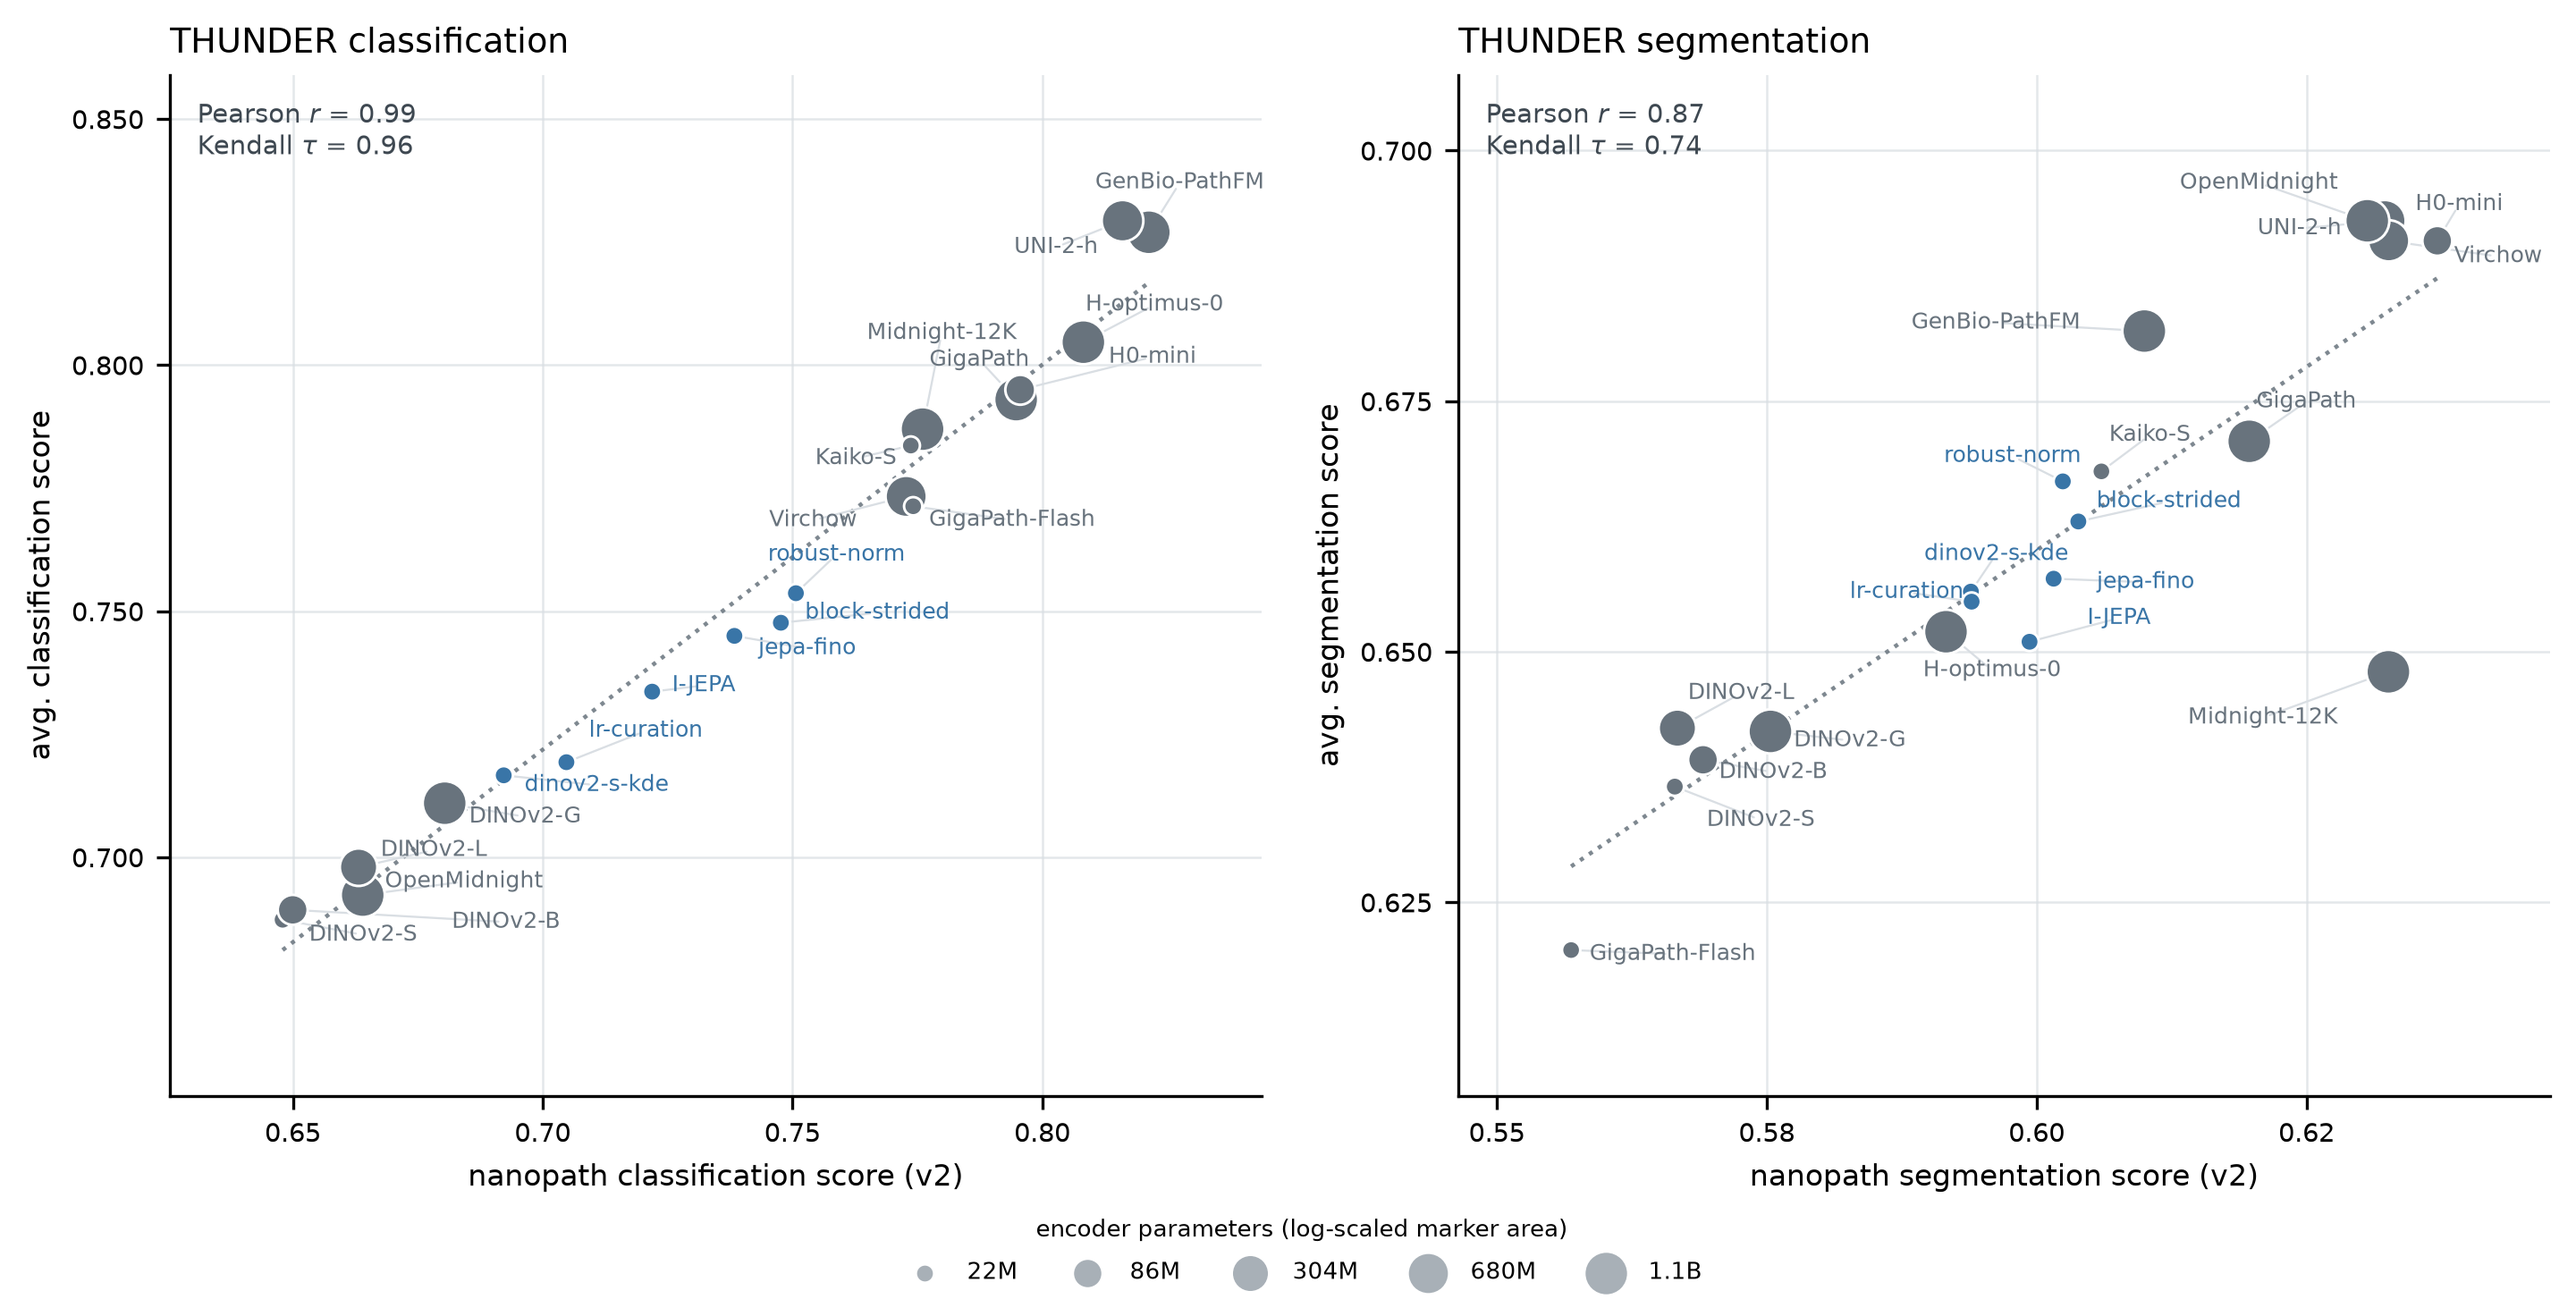
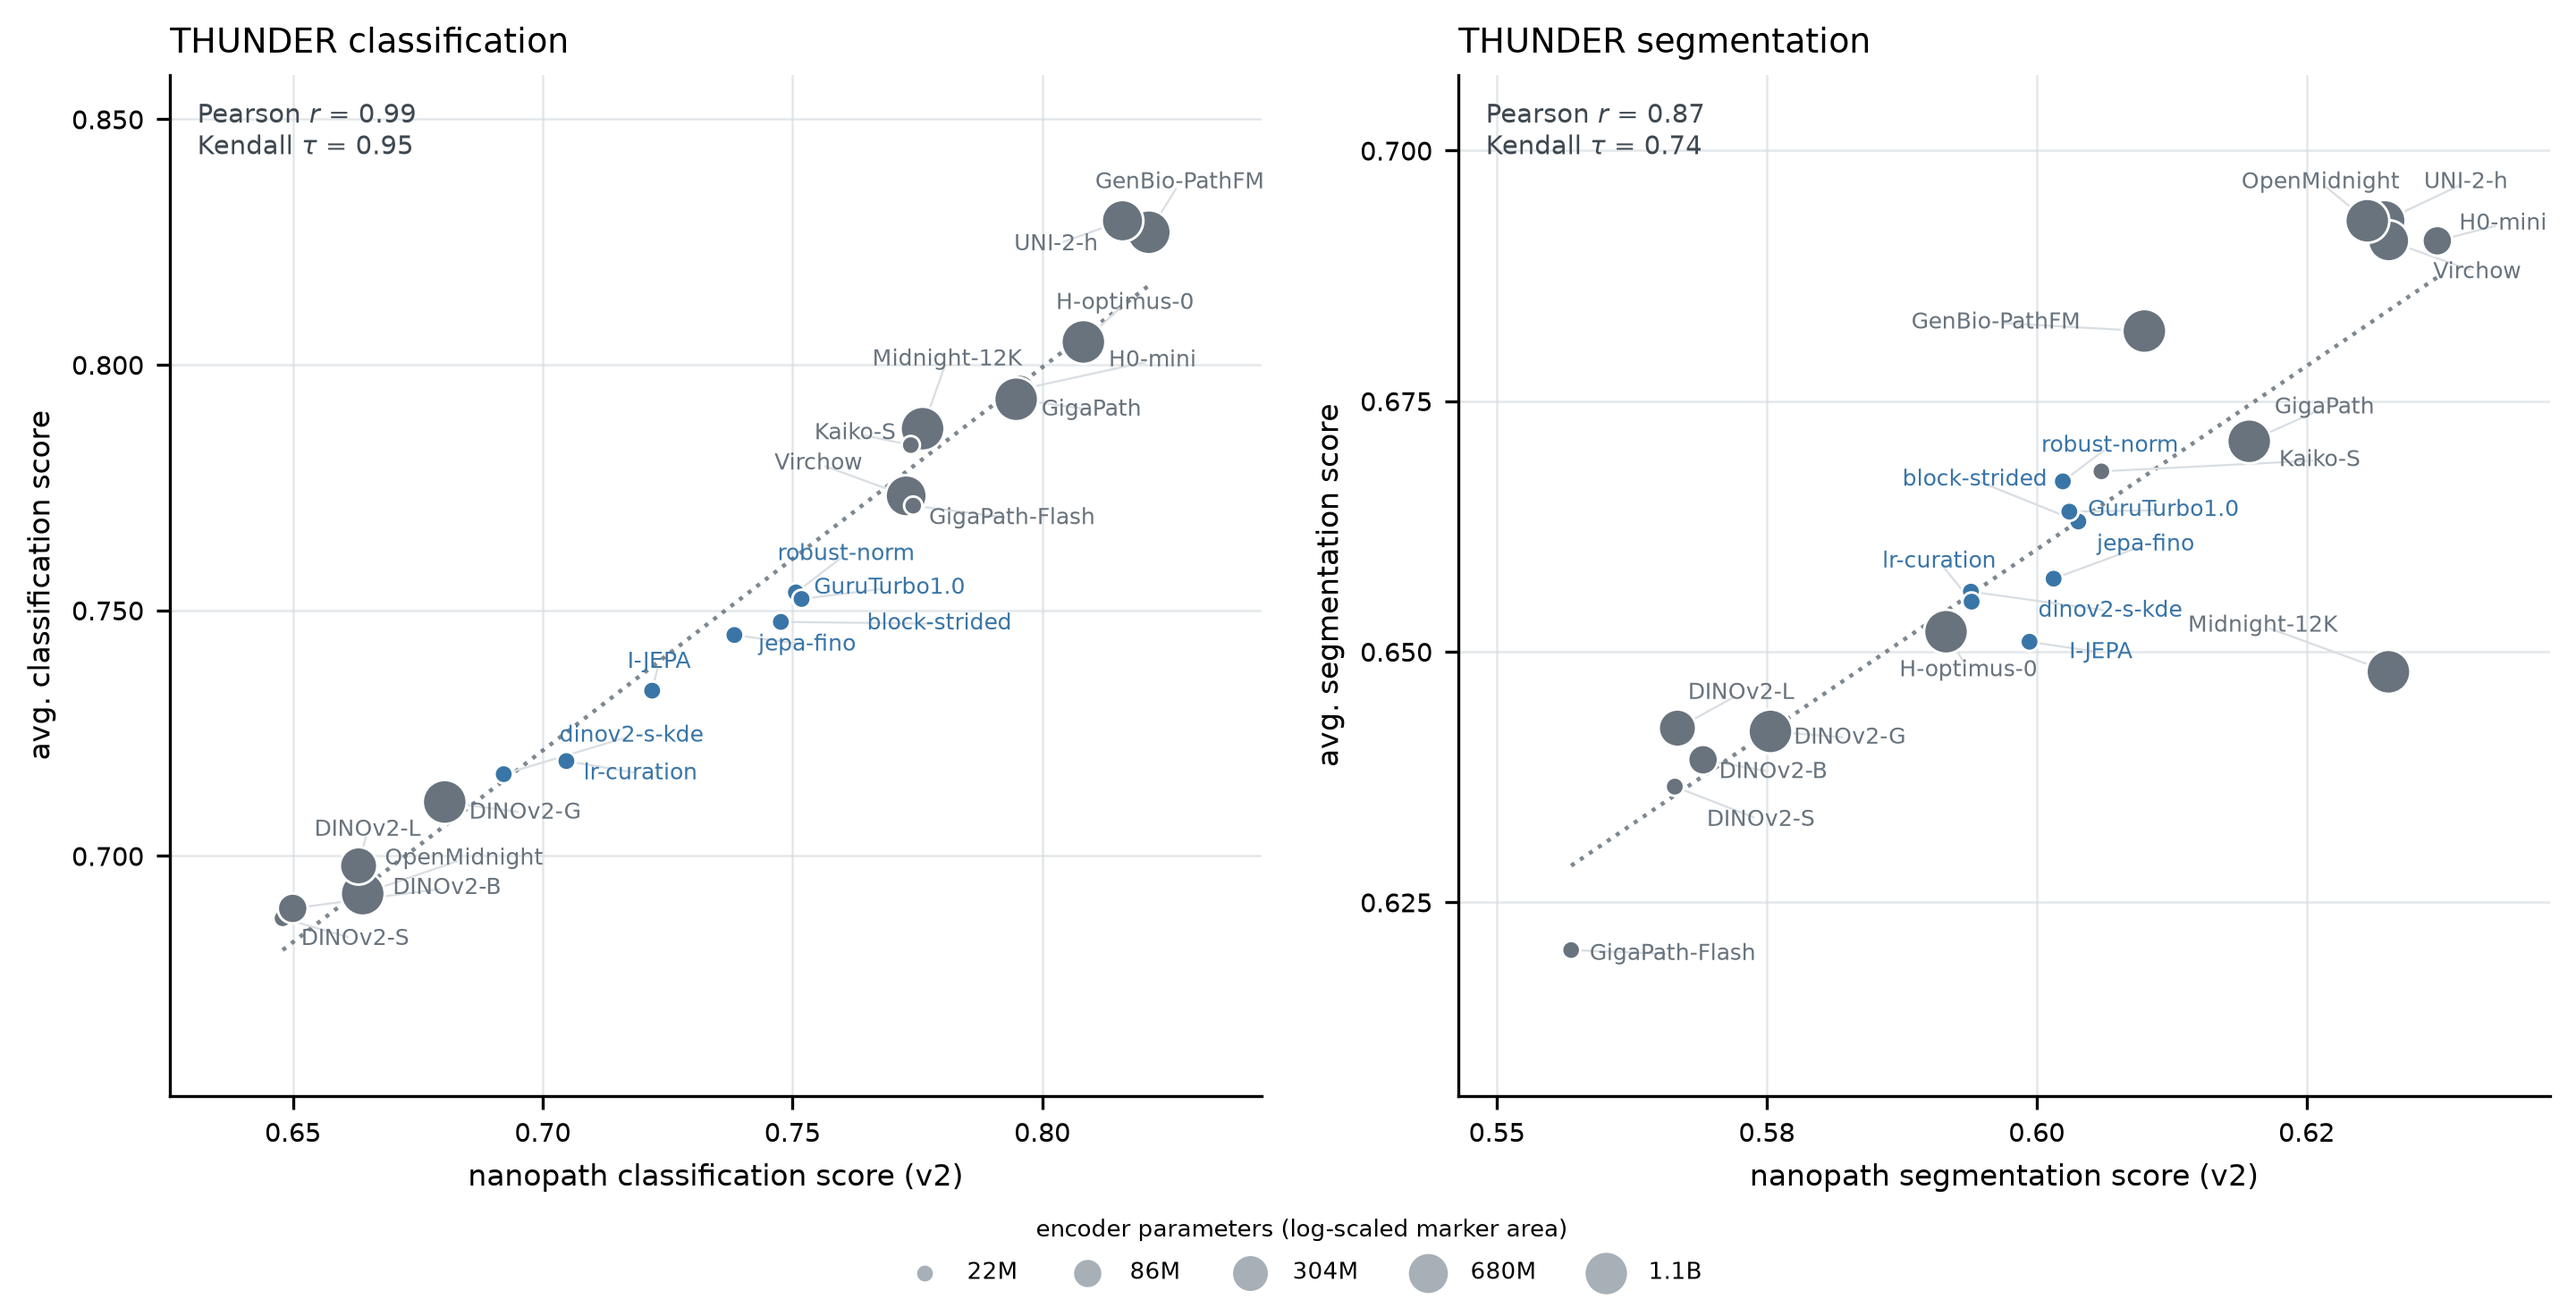
Add GuruTurbo1.0 to evaluation correlation plots

diff --git a/benchmarking/validation.md b/benchmarking/validation.md
@@ -144,7 +144,7 @@ and high random-feature AUC remain limitations of this cohort.
 The earlier promotion study contained six nanopath checkpoints and seven
 principal baselines. Its table below records the pre-CRoMa protocol: official
 results were read after that benchmark, its manifests, and its scalar were
-frozen. The current CRoMa comparisons follow in the expanded 20-model table.
+frozen. The current CRoMa comparisons follow in the expanded 21-model table.
 
 Pairwise concordance is the fraction of non-tied model pairs ordered the same
 way by nanopath and the official target. Cross-family concordance restricts
@@ -172,21 +172,21 @@ Across those 12 pre-existing composite rows, the final score never places a
 studied nanopath checkpoint above GigaPath or H-Optimus-0 when the composite
 places it below that baseline.
 
-An expanded 20-model table adds H0-mini, DINOv2-S/B/L/G, Kaiko-S/16, and
-GigaPath-Flash:
+An expanded 21-model table adds H0-mini, DINOv2-S/B/L/G, Kaiko-S/16, and
+GigaPath-Flash, plus the validated GuruTurbo1.0 median (seed 3539):
 
-| Comparison, 20 models | Pearson | Kendall |
+| Comparison, 21 models | Pearson | Kendall |
 |---|---:|---:|
-| Classification / THUNDER | 0.988 | 0.958 |
-| Segmentation / THUNDER | 0.870 | 0.741 |
-| Final score / THUNDER classification + segmentation | 0.923 | 0.758 |
-| Final score / HEST | 0.896 | 0.768 |
-| Final score / CPTAC classification | 0.797 | 0.684 |
+| Classification / THUNDER | 0.986 | 0.952 |
+| Segmentation / THUNDER | 0.870 | 0.737 |
+| Final score / THUNDER classification + segmentation | 0.920 | 0.762 |
+| Final score / HEST | 0.874 | 0.733 |
+| Final score / CPTAC classification | 0.796 | 0.695 |
 
 The exact comparison input is
 [proxy-fidelity data](proxy_fidelity_v2.csv). Final scores use the assembled
 fixed result, including PanNuke and both SegPath tasks. THUNDER segmentation
-uses complete same-checkpoint results for all 20 models.
+uses complete same-checkpoint results for all 21 models.
 
 ## Random-feature null audit
 
